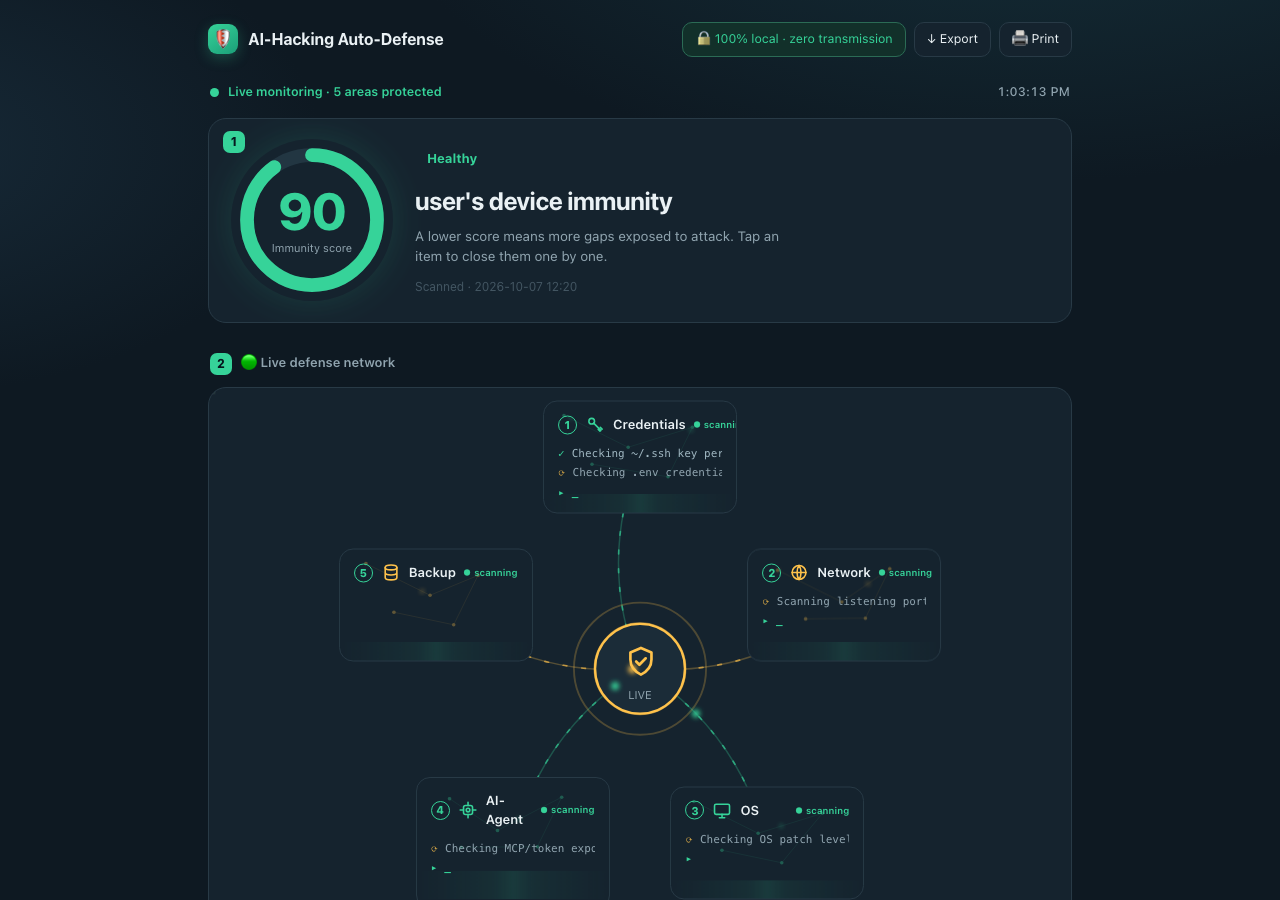
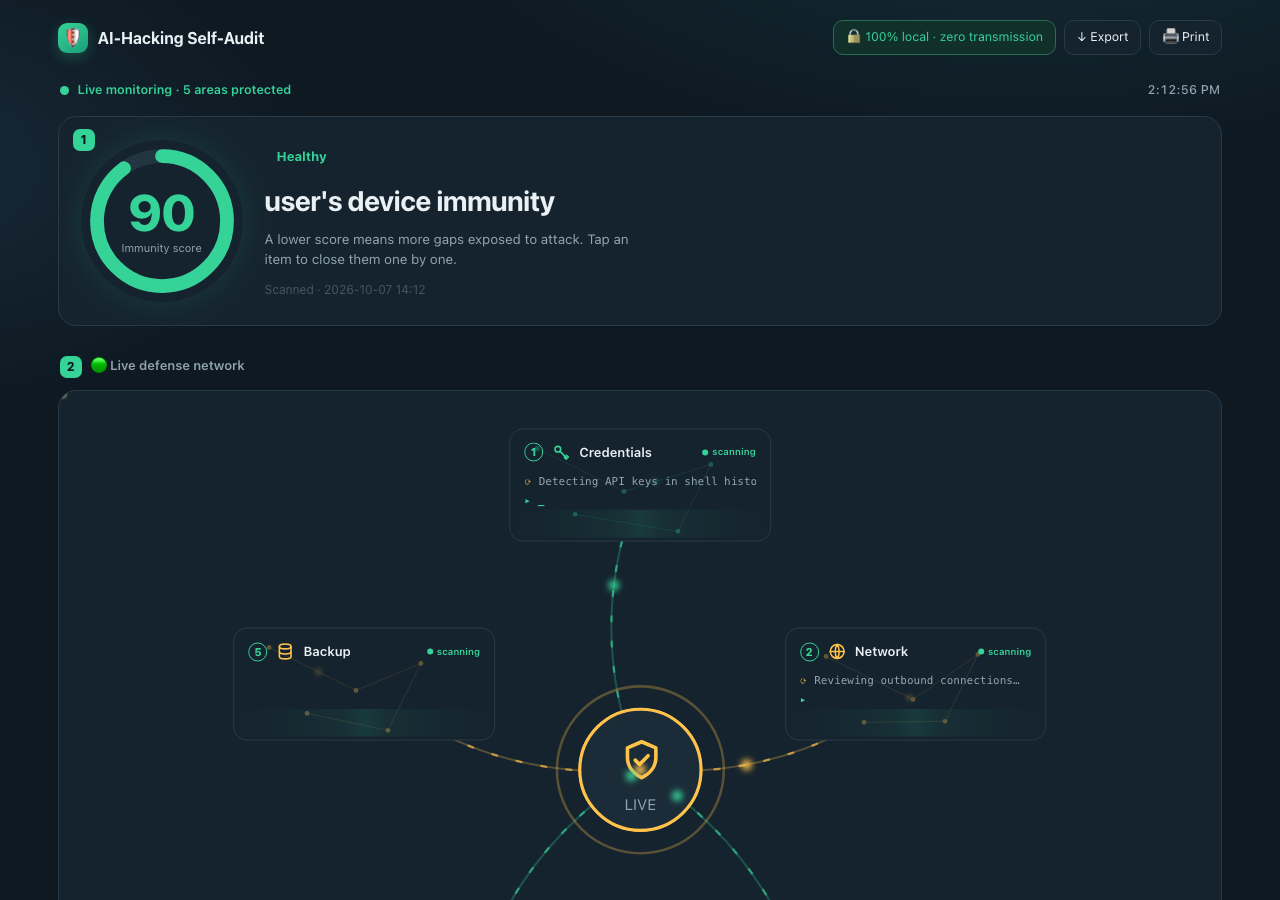
v0.1.3 — rename to AI-Hacking Self-Audit (drop Auto-Defense overclaim); price band B in listings
Q-040 approved. Keep 'Hacking'. Publish-gate PASS.

diff --git a/scan.py b/scan.py
@@ -1,6 +1,6 @@
 #!/usr/bin/env python3
 # -*- coding: utf-8 -*-
-"""AI Hacking Auto-Defense Scanner / AI 해킹 자동 대응 솔루션 (MVP v0.1)
+"""AI-Hacking Self-Audit / AI 해킹 보안 자가진단 (MVP v0.1)
 Non-intrusive, zero-exfiltration personal security self-audit.
   - Non-intrusive: reads local settings/permissions/git/network only. No exploiting.
   - Zero-exfiltration: 100% local. No network calls (no socket/urllib/requests imports).
@@ -71,7 +71,7 @@ MSG = {
         'en': ('Repository auto-backup active (last commit {m}m ago)', 'Code/records backed up hourly via repo commits — same-disk only, weak against disk loss', 'Add an off-device copy (Time Machine/cloud). Restore rehearsal not yet done.')},
 }
 UI = {
-    'title':   {'ko': 'AI 해킹 자동 대응 솔루션', 'en': 'AI-Hacking Auto-Defense'},
+    'title':   {'ko': 'AI 해킹 보안 자가진단', 'en': 'AI-Hacking Self-Audit'},
     'rep':     {'ko': '보안 리포트', 'en': 'Security Report'},
     'of':      {'ko': '님의 기기 보안 리포트', 'en': "'s device"},
     'subtail': {'ko': '비침투 자가진단', 'en': 'non-intrusive self-audit'},
@@ -122,7 +122,7 @@ UISTR = {
            'export':'내보내기','print':'인쇄','local':'100% 로컬 · 외부 전송 0',
            'local_more':'이 진단은 당신의 기기에서만 실행됩니다. 파일·비밀번호·데이터가 외부로 전송되지 않습니다(네트워크 전송 0). 비밀번호 값은 기록하지 않고, 위험이 "어디"에 있는지만 알려줍니다.',
            'scanned':'진단 시각','whatscore':'점수가 낮을수록 공격에 노출된 틈이 많다는 뜻입니다. 항목을 눌러 하나씩 닫아 보세요.'},
-    'en': {'brand':'AI-Hacking Auto-Defense','hero_sub':"'s device immunity",'immunity':'Immunity score',
+    'en': {'brand':'AI-Hacking Self-Audit','hero_sub':"'s device immunity",'immunity':'Immunity score',
            'v_good':'Healthy','v_warn':'Needs attention','v_crit':'At risk',
            'vitals':'Vitals by area','monitor_title':'🔎 Live scan monitor · auto-checking','scanning':'scanning','scandone':'checked','sec_find':'Findings','net_title':'🟢 Live defense network','watching':'LIVE','live_watch':'Live monitoring · 5 areas protected','all':'All','crit':'Critical','warn':'Warning','info':'Info',
            'findings':'findings','clean':'No issues found. Your device is fully hardened.',
@@ -283,7 +283,7 @@ class Scan:
                 'user': getpass.getuser(), 'score': max(0, 100-H*12-M*5), 'high': H, 'med': M, 'findings': self.findings}
 
 _DASHBOARD = r"""<!doctype html><html lang="__L__"><head><meta charset="utf-8">
-<meta name="viewport" content="width=device-width,initial-scale=1"><title>AI-Hacking Auto-Defense</title>
+<meta name="viewport" content="width=device-width,initial-scale=1"><title>AI-Hacking Self-Audit</title>
 <style>
 :root{--ink:#0E1922;--surf:#15232E;--surf2:#1B2C38;--line:#283a46;--text:#EAF1F4;--muted:#90A4AF;--faint:#62788699;
 --crit:#FF6B6B;--warn:#FFC24B;--good:#36D399;--info:#5AB0FF;--r:18px;
@@ -294,7 +294,7 @@ body{font-family:var(--sans);background:
 radial-gradient(1200px 600px at 80% -10%,#15303a 0,transparent 55%),
 radial-gradient(900px 500px at -10% 10%,#172a38 0,transparent 50%),var(--ink);
 color:var(--text);min-height:100vh;-webkit-font-smoothing:antialiased;line-height:1.5}
-.wrap{max-width:900px;margin:0 auto;padding:22px 18px 60px}
+.wrap{width:100%;max-width:clamp(900px,95vw,3360px);margin:0 auto;padding:clamp(14px,1.6vw,28px) clamp(14px,2vw,40px) 60px}
 header{display:flex;align-items:center;gap:12px;margin-bottom:26px}
 .logo{display:flex;align-items:center;gap:10px;font-weight:700;letter-spacing:-.01em}
 .logo .mk{width:30px;height:30px;border-radius:9px;background:linear-gradient(145deg,var(--good),#1b9e78);
@@ -314,16 +314,16 @@ border-radius:var(--r);padding:26px 28px;position:relative;overflow:hidden}
 .ring .bg{stroke:#223642}
 .ring .fg{transition:stroke-dashoffset 1.4s cubic-bezier(.22,1,.36,1);stroke:var(--good)}
 .ringnum{position:absolute;inset:0;display:flex;flex-direction:column;align-items:center;justify-content:center}
-.ringnum b{font-family:var(--round);font-size:52px;font-weight:800;line-height:1;letter-spacing:-.02em}
+.ringnum b{font-family:var(--round);font-size:clamp(38px,4vw,56px);font-weight:800;line-height:1;letter-spacing:-.02em}
 .ringnum span{font-size:11px;color:var(--muted);margin-top:3px}
 .verdict{min-width:0}
 .verdict .vtag{display:inline-block;font-size:13px;font-weight:700;padding:4px 12px;border-radius:999px;margin-bottom:10px}
-.verdict h1{font-size:25px;font-weight:700;letter-spacing:-.02em;margin-bottom:6px}
+.verdict h1{font-size:clamp(19px,2.2vw,30px);font-weight:700;letter-spacing:-.02em;margin-bottom:6px}
 .verdict p{color:var(--muted);font-size:13.5px;max-width:46ch}
 .verdict .meta{color:var(--faint);font-size:12px;margin-top:12px}
 /* vitals */
 .sec-h{font-size:13px;color:var(--muted);margin:30px 2px 12px;font-weight:600}
-.vitals{display:grid;grid-template-columns:repeat(5,1fr);gap:10px}
+.vitals{display:grid;grid-template-columns:repeat(auto-fit,minmax(clamp(132px,13vw,190px),1fr));gap:clamp(8px,0.9vw,14px)}
 .vital{background:var(--surf);border:1px solid var(--line);border-radius:14px;padding:13px 13px 15px;cursor:pointer;
 text-align:left;transition:transform .12s,border-color .15s;color:inherit;font:inherit}
 .vital:hover{transform:translateY(-2px);border-color:#3b5464}
@@ -380,7 +380,7 @@ footer{margin-top:30px;color:var(--faint);font-size:11.5px;line-height:1.7;borde
  .fnode .feed{min-height:70px}
 }
 /* 보안 모듈 카드 (Q-048) */
-.cardgrid{display:grid;grid-template-columns:repeat(auto-fill,minmax(340px,1fr));gap:12px;margin-bottom:8px}
+.cardgrid{display:grid;grid-template-columns:repeat(auto-fit,minmax(clamp(270px,22vw,360px),1fr));gap:clamp(10px,1.1vw,18px);margin-bottom:8px}
 @media (min-width:2400px){.cardgrid{grid-template-columns:repeat(auto-fill,minmax(420px,1fr))}}
 .mcard{background:var(--surf);border:1px solid var(--line);border-radius:var(--r);padding:16px 16px 14px;display:flex;flex-direction:column;gap:9px;min-width:0}
 .mcard.alert{border-color:var(--crit);box-shadow:0 0 0 1px var(--crit) inset}

diff --git a/docs/INSTALL.md b/docs/INSTALL.md
@@ -1,4 +1,4 @@
-# 설치 가이드 (한국어) — AI-Hacking Auto-Defense Scanner
+# 설치 가이드 (한국어) — AI-Hacking Self-Audit
 
 > 외부로 단 1바이트도 보내지 않는 개인 보안 자가진단 도구입니다. 설치부터 첫 리포트까지 3분이면 됩니다.
 > English guide: [INSTALL_EN.md](INSTALL_EN.md)

diff --git a/docs/INSTALL_EN.md b/docs/INSTALL_EN.md
@@ -1,4 +1,4 @@
-# Install Guide (English) — AI-Hacking Auto-Defense Scanner
+# Install Guide (English) — AI-Hacking Self-Audit
 
 > A personal security self-audit that never sends a single byte off your machine. Install to first report in ~3 minutes.
 > 한국어 가이드: [INSTALL.md](INSTALL.md)

diff --git a/README.md b/README.md
@@ -1,4 +1,4 @@
-# 🛡 AI-Hacking Auto-Defense Scanner (MVP v0.1)
+# 🛡 AI-Hacking Self-Audit (MVP v0.1)
 A **non-intrusive, zero-exfiltration** personal security self-audit for macOS.
 
 ## Why

diff --git a/en/README_EN.md b/en/README_EN.md
@@ -1,4 +1,4 @@
-# 🛡 AI-Hacking Auto-Defense Scanner (MVP v0.1)
+# 🛡 AI-Hacking Self-Audit (MVP v0.1)
 A **non-intrusive, zero-exfiltration** personal security self-audit for macOS.
 
 ## Why
